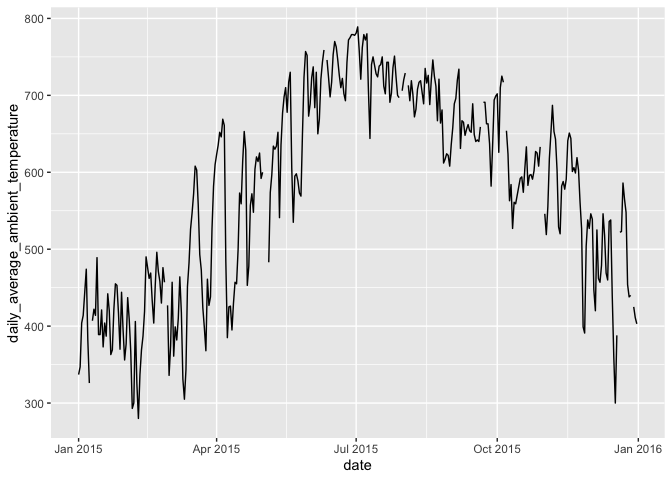
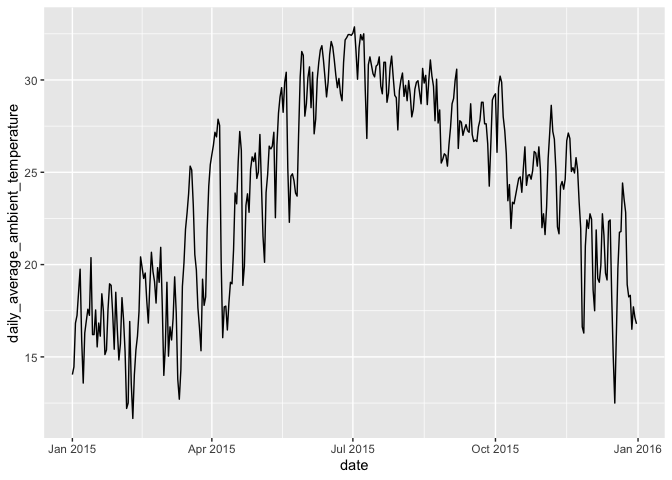
progress

diff --git a/problem_sets/assignment_6.md b/problem_sets/assignment_6.md
@@ -3,20 +3,6 @@
 
 ``` r
 library(tidyverse)
-```
-
-    ── Attaching core tidyverse packages ──────────────────────── tidyverse 2.0.0 ──
-    ✔ dplyr     1.1.4     ✔ readr     2.1.5
-    ✔ forcats   1.0.0     ✔ stringr   1.5.1
-    ✔ ggplot2   3.5.2     ✔ tibble    3.3.0
-    ✔ lubridate 1.9.4     ✔ tidyr     1.3.1
-    ✔ purrr     1.1.0     
-    ── Conflicts ────────────────────────────────────────── tidyverse_conflicts() ──
-    ✖ dplyr::filter() masks stats::filter()
-    ✖ dplyr::lag()    masks stats::lag()
-    ℹ Use the conflicted package (<http://conflicted.r-lib.org/>) to force all conflicts to become errors
-
-``` r
 library(knitr)
 ```
 
@@ -36,24 +22,24 @@ exercise in order to get credit.**
 `tribble()`:
 
 ``` r
-tibble(a=1:2, b=c(2.1,3.2), c=c("apple", "orange"))
-```
-
-    # A tibble: 2 × 3
-          a     b c     
-      <int> <dbl> <chr> 
-    1     1   2.1 apple 
-    2     2   3.2 orange
-
-`tibble()`:
-
-``` r
 tribble(~a, ~b, ~c, 1, 2.1, "apple", 2, 3.2, "orange")
 ```
 
     # A tibble: 2 × 3
           a     b c     
       <dbl> <dbl> <chr> 
+    1     1   2.1 apple 
+    2     2   3.2 orange
+
+`tibble()`:
+
+``` r
+tibble(a=1:2, b=c(2.1,3.2), c=c("apple", "orange"))
+```
+
+    # A tibble: 2 × 3
+          a     b c     
+      <int> <dbl> <chr> 
     1     1   2.1 apple 
     2     2   3.2 orange
 
@@ -131,6 +117,12 @@ dataset4_clean_version |>
 | WIND_SPEED | m/sec | Wind speed (The average of last ten minutes per hour) |
 | WS_HR | m/sec | Wind speed (The average of hour) |
 
+`#` indicates invalid value by equipment inspection  
+`*` indicates invalid value by program inspection  
+`x` indicates invalid value by human inspection  
+`NR` indicates no rainfall  
+blank indicates no data
+
 #### **2.2 Data tidying**
 
 - Import
@@ -178,9 +170,8 @@ After cleaning:
 ``` r
 dataset5_after_cleaning <- dataset5_before_cleaning |>
   pivot_longer (cols='00':'23', names_to ="hour", values_to = "value") |>
-  mutate(hour =paste0(hour, ":00")) |>
   pivot_wider (names_from = item, values_from = value) |>
-  mutate (date = as.Date (date), across (AMB_TEMP:PM10, as.numeric))
+  mutate (date = as.Date (date), across (AMB_TEMP:PM10, as.numeric), hour= hms::as_hms(paste0(hour, ":00:00")))
 
 dataset5_after_cleaning |>
   select (1:10) |>
@@ -188,14 +179,14 @@ dataset5_after_cleaning |>
 ```
 
     # A tibble: 6 × 10
-      date       station hour  AMB_TEMP    CO    NO   NO2   NOx    O3  PM10
-      <date>     <chr>   <chr>    <dbl> <dbl> <dbl> <dbl> <dbl> <dbl> <dbl>
-    1 2015-01-01 Cailiao 00:00       16  0.74   1      15    16    35   171
-    2 2015-01-01 Cailiao 01:00       16  0.7    0.8    13    14    36   174
-    3 2015-01-01 Cailiao 02:00       15  0.66   1.1    13    14    35   160
-    4 2015-01-01 Cailiao 03:00       15  0.61   1.7    12    13    34   142
-    5 2015-01-01 Cailiao 04:00       15  0.51   2      11    13    34   123
-    6 2015-01-01 Cailiao 05:00       14  0.51   1.7    13    15    32   110
+      date       station hour   AMB_TEMP    CO    NO   NO2   NOx    O3  PM10
+      <date>     <chr>   <time>    <dbl> <dbl> <dbl> <dbl> <dbl> <dbl> <dbl>
+    1 2015-01-01 Cailiao 00:00        16  0.74   1      15    16    35   171
+    2 2015-01-01 Cailiao 01:00        16  0.7    0.8    13    14    36   174
+    3 2015-01-01 Cailiao 02:00        15  0.66   1.1    13    14    35   160
+    4 2015-01-01 Cailiao 03:00        15  0.61   1.7    12    13    34   142
+    5 2015-01-01 Cailiao 04:00        15  0.51   2      11    13    34   123
+    6 2015-01-01 Cailiao 05:00        14  0.51   1.7    13    15    32   110
 
 #### **2.3 Using this cleaned dataset, plot the daily variation in ambient temperature on September 25, 2015, as shown below.**
 
@@ -203,8 +194,7 @@ dataset5_after_cleaning |>
 dataset5_after_cleaning |>
   filter (date == "2015-09-25") |>
   ggplot () +
-  geom_line (aes(x=hour, y=AMB_TEMP, group=1)) +
-  scale_x_discrete(breaks = c("00:00", "04:00", "08:00", "12:00", "16:00", "20:00", "24:00"))
+  geom_line (aes(x=hour, y=AMB_TEMP, group=1))
 ```
 
 ![](assignment_6_files/figure-commonmark/unnamed-chunk-9-1.png)
@@ -212,12 +202,13 @@ dataset5_after_cleaning |>
 #### **2.4 Plot the daily average ambient temperature throughout the year with a continuous line, as shown below.**
 
 ``` r
-dataset5_after_cleaning |>
-  filter (date >= "2015-01-01" & date <= "2016-01-01") |>
+average_ambient_temperature <- dataset5_after_cleaning |>
   group_by (date) |>
-  summarize (daily_average_ambient_temperature = sum(AMB_TEMP)) |>
+  summarize (daily_average_ambient_temperature = mean (AMB_TEMP, na.rm = TRUE))
+
+average_ambient_temperature |>
   ggplot () +
-  geom_line (aes(x=date, y=daily_average_ambient_temperature))
+  geom_line (mapping=aes(x=date, y=daily_average_ambient_temperature))
 ```
 
 ![](assignment_6_files/figure-commonmark/unnamed-chunk-10-1.png)
@@ -228,7 +219,7 @@ dataset5_after_cleaning |>
 
 ``` r
 dataset5_after_cleaning |>
-  mutate (month=as.numeric(format(date, "%m")), RAINFALL = as.numeric(RAINFALL)) |>
+  mutate (month= month(date), RAINFALL = as.numeric(RAINFALL)) |>
   group_by (month) |>
   summarize (MonthlyRainfall=sum(RAINFALL, na.rm=TRUE)) |>
   ggplot(aes(x=factor(month, levels =1:12), y = MonthlyRainfall)) +
@@ -242,13 +233,3 @@ dataset5_after_cleaning |>
 
 *Hint: uniting the date and hour and parsing the new variable might be
 helpful.*
-
-``` r
-dataset5_after_cleaning |>
-  mutate (PM2.5 = as.numeric(PM2.5), time=as.POSIXct(paste(date, hour), format= "%Y-%m-%d %H:%M")) |>
-  filter (format(date, "%m") == "09", as.numeric(format(date, "%d")) <= 7) |>
-  ggplot () +
-  geom_line (mapping=aes(x=time, y=PM2.5))
-```
-
-![](assignment_6_files/figure-commonmark/unnamed-chunk-12-1.png)
